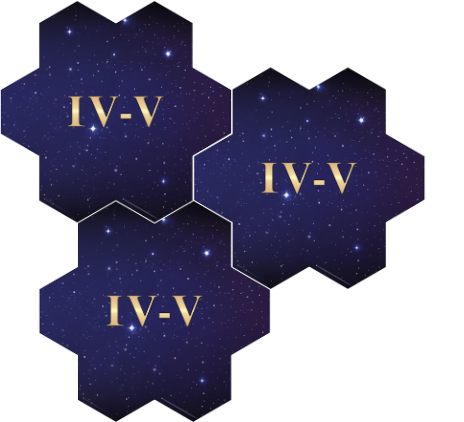
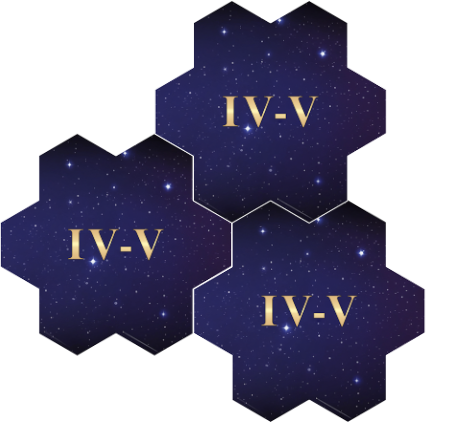
new CC scenario

diff --git a/draft-scenarios/clash/controlled-chaos.tex b/draft-scenarios/clash/controlled-chaos.tex
@@ -30,7 +30,7 @@ Take the following Map Tiles and arrange them as shown in the Scenario map layou
 
 \begin{itemize}
   \item $P$ × Starting (I) Map Tiles
-  \item $P$ × Far (II--III) Map Tiles with Settlements
+  \item $P$ × Far (II--III) Map Tiles with Settlements of unused Factions
   \item $P$+1 × Near (IV--V) Map Tiles for 2--3 players
   \item $P$+2 × Near (IV--V) Map Tiles for 4 players
   \item $P$+3 × Near (IV--V) Map Tiles for 5--6 players
@@ -56,19 +56,19 @@ If no player has achieved an immediate victory, the player with the most Victory
 \subsection*{\MakeUppercase{Timed Events}}
 \textbf{\nth{1} Round:}
 \begin{itemize}
-  \item Gain an Empowered Defense Statistic Card.
+  \item All players may gain an Empowered Defense Statistic Card.
 \end{itemize}
 \textbf{\nth{2} Round:}
 \begin{itemize}
-  \item Search (3) \svg{artifact}, \svg{skill}, \svg{spellpower}.
+  \item Search (3) \svg{artifact}, \svg{skill}, or \svg{spellpower}.
 \end{itemize}
 \textbf{\nth{3} Round:}
 \begin{itemize}
-  \item Search (3) \svg{artifact}, \svg{skill}, \svg{spellpower}, or your Deck. Gain a Spell Scroll.
+  \item Search (3) \svg{artifact}, \svg{skill}, \svg{spellpower}, or your Deck, \textit{and} Gain a Spell Scroll
 \end{itemize}
 \textbf{\nth{5}, \nth{6} \& \nth{7} Round:}
 \begin{itemize}
-  \item The Player(s) with least \svg{experience}, gain 1 \svg{experience}.
+  \item The player(s) with least \svg{experience}, gain 1 \svg{experience}.
 \end{itemize}
 \textbf{\nth{8} Round:}
 \begin{itemize}
@@ -81,22 +81,24 @@ If no player has achieved an immediate victory, the player with the most Victory
   \begin{itemize}
     \item 3 \svg{gold} \svg{arrows_gray} 2 \svg{building_materials} \svg{arrows_gray} 1 \svg{valuables}
   \end{itemize}
+  \item Once per round, during your turn, you may discard 1 \svg{valuables} to draw 2 cards.
   \item Each player may build Mage Guild at any time for free without spending their Build Token.
   \item City Hall and Special Buildings can be built for half price. (Cost in \svg{gold} is Rounded up; \svg{building_materials} and \svg{valuables} are rounded down.)
   \item Gain 5 \svg{gold} and draw Cards up to your \svg{hand} Limit after winning a Neutral Combat.
-  \item After capturing a Settlement, that player may recruit Units of that Settlement's Faction when using Population Token. If that Faction is already in play, randomly choose an unused Faction instead.
-  \item Players may remove one Black Cube from the Map at the start of their turn.
-  \item After a Combat against another players Main Hero:
+  \item \textbf{Settlement:} Add the Settlement's Faction Units to your available Recruitable Units.
+  \item \textbf{Near Tiles \& Portals:} When revealing a Near Map Tile, gain a Pandora's Box Card and place a Portal to the Blocked Field on that Tile.
+  \item When using a Portal for the first time, gain a Pandora's Box Card.
+  \item All IV--VI Neutral Combats in the Center Island are considered +1 level.
+  \item You may use Center (VI-VII) Map Tiles on the Center Island.
+  \item Players may remove 1 Black Cube from the Center Island at the start of their turn.
+  \item \textbf{PvP Combat:} After a Combat against another player's Main Hero:
   \begin{itemize}
-    \item The winner gains 2 \svg{experience} \& Search (4) \svg{artifact}; the loser gains 1 \svg{experience} \& Empowered Token.
+    \item The winner: gain 2 \svg{experience} \& Search (4) \svg{artifact}
+    \item The loser: gain 1 \svg{experience} \& an Empowered Token.
     \item Both players draw Cards up to their \svg{hand} Limit.
     \item Both players gain \svg{gold} equal to half the total value of their defeated Units Rounded down.
   \end{itemize}
-  \item When revealing a Near Map Tile, gain a Pandora's Box Card and place a Portal to the Blocked Field on that Tile.
-  \item When using a Portal for the first time, gain a Pandora's Box Card.
-  \item All Neutral Combats in the Center Island are considered +1 level.
-  \item You may use Center (VI-VII) Map Tiles on the Center Island.
-  \item You may teleport your Main Hero to defend your Town by paying 8 \svg{gold} and discarding 1 Card.
+  \item You may teleport your Main Hero to defend your Town by discarding 2 Cards.
   \item After capturing an enemy Town, increase all incomes by one space.
 \end{itemize}
 
@@ -113,9 +115,9 @@ If no player has achieved an immediate victory, the player with the most Victory
   \includegraphics[width=0.8\linewidth]{\maps/controlled-chaos.png}
   \captionof{figure}{\textbf{STARTING ISLANDS}}
 
-  \hspace*{-1em}\includegraphics[width=0.7\linewidth]{\maps/controlled-chaos-center.png}
+  \hspace*{1em}\includegraphics[width=0.7\linewidth]{\maps/controlled-chaos-center.png}
   %\vspace*{-1em}
-  \hspace*{2em}\captionof{figure}{\textbf{CENTER ISLAND}}
+  \hspace*{-4em}\captionof{figure}{\textbf{CENTER ISLAND}}
 \end{center}
 
 \end{multicols*}
